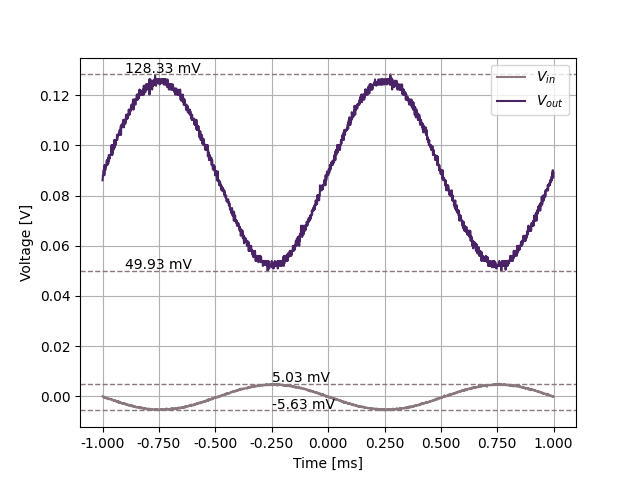
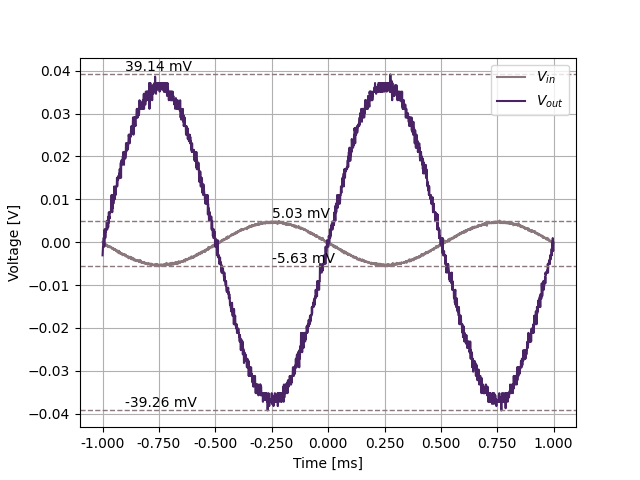
Fixed one of the figures

diff --git a/2024/lab06/plots/plot_stuff.py b/2024/lab06/plots/plot_stuff.py
@@ -56,7 +56,7 @@ def gain_9_46():
 def rl_1meg():
     data = pd.read_csv('../data/scope_38.csv', header=1)
     vin = data['Volt']
-    vout = data['Volt.1']
+    vout = data['Volt.1'] - data['Volt.1'].mean()
     plot_vin_vout(data['second'], vin, vout, 'rl_1meg', xpos_vin=-0.00025, xpos_vout=-0.0009, legend_pos='upper right')
 
 def rl_470():
